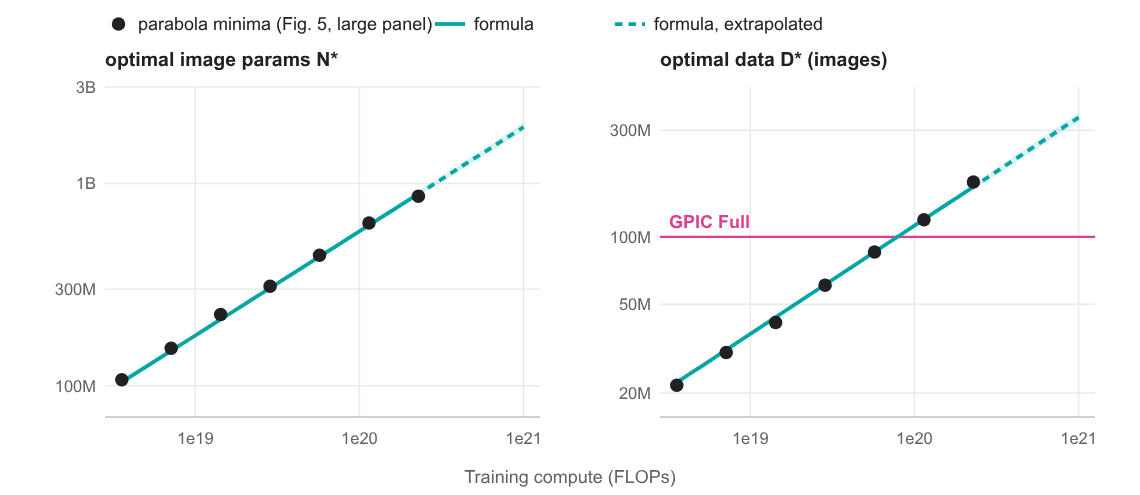
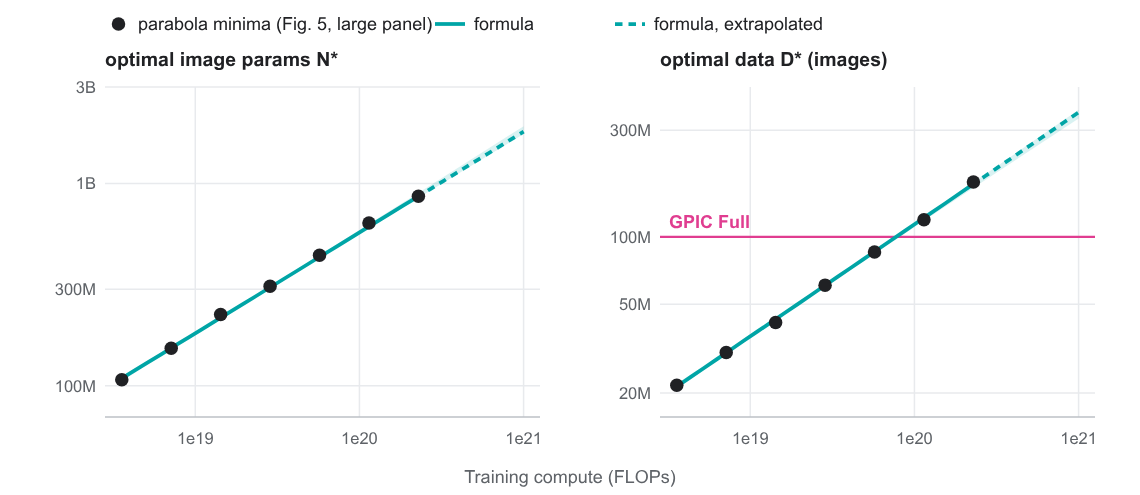
Scaling law: each run weighted toward its iso-FLOP minimum and toward larger compute, as in the post; the recipe at the optimum
The post's fit changed (owner, 2026-11-15: a free fit weighted toward the bottom of each curve and toward larger compute, width 0.4 x
sqrt(C)): each run's weight is exp(-d^2 / (2 x 0.4^2)) x sqrt(C / 3.6e18), d = ln N minus the vertex of its budget's iso-FLOP parabola.
tools/fit/scaling_law.py now fits with these weights (--equal-weights gives the earlier fit: E 0.04805, N* ~ C^0.515) and reproduces
the post: E 0.04572, A 5.314e-5, B 3.829e-4, alpha 0.5202, beta 0.5171, k 0.2030; RMS 0.057% (0.025% for the 28 runs within 2x of a
minimum); N* ~ C^0.498 [0.491, 0.516] with --boot 200; 50.4 to 51.3 tokens per parameter from 3.6e18 to 1e21 FLOPs.
It also prints the recipe at each optimum (owner: list the optimal Muon learning rate, AdamW learning rate and Muon weight decay):
Muon lr 1.36e-2 (C / 3.567e18)^-0.5, AdamW lr 6.4e-4 (all params / 109.4M)^-0.547 with all params from N* by a power law over the
runs' shapes, Muon weight decay 5 / (Muon lr x steps); the weight decay stays at 0.0175 to 0.0176. final_ladder_runs.csv gains the
column all_params (every parameter of each run's model). README: the new constants, exponents, the 1e21 optimum and its recipe;
docs/readme/optimum.png is the post's new figure 6.

Claude-Session: https://claude.ai/code/session_01Dj2myRxoRV2Rpcc3nkYAcR

diff --git a/tools/fit/scaling_law.py b/tools/fit/scaling_law.py
@@ -4,16 +4,22 @@
 One formula for the held-out loss of a model with N image parameters trained on D image tokens:
     L(N, D) = E + (A / N^alpha + B / D^beta)^k          (Chinchilla's form when k = 1)
 N = 18 x image layers x width^2 (the image layers' matrices; text layers, adaLN and embeddings left out), D = image tokens seen
-(256 per image), C = 6 N D. The fit minimizes the squared relative error over the runs (least squares, 48 random starts, the best kept),
-in the variables x = ln(N / 1e8), y = ln(D / 1e10): L = E + K [e^(-alpha x) + R e^(-beta y)]^k, which gives A and B back.
+(256 per image), C = 6 N D. The fit minimizes the weighted squared relative error over the runs (least squares, 48 random starts, the
+best kept), in the variables x = ln(N / 1e8), y = ln(D / 1e10): L = E + K [e^(-alpha x) + R e^(-beta y)]^k, which gives A and B back.
+Each run's weight is exp(-d^2 / (2 x 0.4^2)) x sqrt(C / 3.6e18), d = ln N minus the vertex of its budget's iso-FLOP parabola (a quadratic
+in ln N through that budget's runs): runs far from a minimum pull the optimum off (equal weights: N* ~ C^0.515; only the runs within 2x
+of a minimum: C^0.50), and larger budgets are closer to where the law is extrapolated. --equal-weights fits every run alike.
 For a budget C the loss is lowest at N* = G (C / 6)^(beta / (alpha + beta)), D* = C / (6 N*), G = (alpha A / (beta B))^(1 / (alpha + beta))
-(Weng 2026's closed form; k does not move the optimum). --boot resamples the runs for 90% intervals.
+(Weng 2026's closed form; k does not move the optimum). --boot resamples the runs (each keeps its weight) for 90% intervals.
+At each optimum it also prints the post's recipe: Muon lr = 1.36e-2 (C / 3.567e18)^-0.5, AdamW lr = 6.4e-4 (all params / 109.4M)^-0.547,
+Muon weight decay = 5 / (Muon lr x steps), steps = D* / (1024 x 256); all params from N* by a power law over the runs' shapes.
 
 Data: final_ladder_runs.csv beside this file: every run of the iso-FLOP curves with the post's recipe (50% cooldown, the rate rule,
 batch 1024, GPIC Full), 3.6e18 to 2.3e20 FLOPs; heldout_loss is tools/heldout_loss.py's mean over 16 noise levels on 3,072 held-out
-images, raw weights at the last step.
-usage: python tools/fit/scaling_law.py [--csv final_ladder_runs.csv] [--boot 200]      (numpy and scipy; about a minute with --boot 200)
-Expected (the post): E 0.0481, alpha 0.54, beta 0.57, k 0.22, N* ~ C^0.52, about 50 tokens per parameter, a loss error of 0.036%.
+images, raw weights at the last step; all_params counts every parameter of the model.
+usage: python tools/fit/scaling_law.py [--csv final_ladder_runs.csv] [--boot 200] [--equal-weights]   (numpy and scipy; a minute with --boot)
+Expected (the post): E 0.0457, alpha 0.52, beta 0.52, k 0.20, N* ~ C^0.50, 50 to 51 tokens per parameter, a loss error of 0.057%
+(0.025% for the runs within 2x of a minimum); at the optimum a Muon weight decay of about 0.0175 at every budget.
 """
 import argparse, csv, math, os
 import numpy as np
@@ -23,6 +29,7 @@ from scipy.optimize import least_squares
 SPEC = [("E", 0.0, 0.0645, (0.055, 0.064)), ("lnK", -25, 5, (-9, -3)), ("alpha", 0.005, 3, (0.05, 1.5)), ("beta", 0.005, 3, (0.05, 1.5)),
         ("lnR", -15, 15, (-3, 3)), ("k", 0.005, 3, (0.05, 1.2))]
 LO, HI = np.array([s[1] for s in SPEC]), np.array([s[2] for s in SPEC])
+C0 = 3.567e18   # the smallest budget (d10); budgets are C0 x 2^j
 
 
 def predict(t, x, y):
@@ -30,14 +37,15 @@ def predict(t, x, y):
     return E + np.exp(lnK + k * np.logaddexp(-a * x, lnR - b * y))
 
 
-def fit(x, y, L, nstart, seed, extra=()):
+def fit(x, y, L, w, nstart, seed, extra=()):
     rng = np.random.default_rng(seed)
     best = (None, float("inf"))
+    sw = np.sqrt(w)
     for s in list(extra) + [np.array([rng.uniform(*sp[3]) for sp in SPEC]) for _ in range(nstart)]:
         s = np.clip(s, LO + 1e-9 * (HI - LO), HI - 1e-9 * (HI - LO))
         try:
             with np.errstate(all="ignore"):
-                r = least_squares(lambda t: (predict(t, x, y) - L) / L, s, bounds=(LO, HI), method="trf", x_scale="jac",
+                r = least_squares(lambda t: sw * (predict(t, x, y) - L) / L, s, bounds=(LO, HI), method="trf", x_scale="jac",
                                   max_nfev=4000, ftol=1e-12, xtol=1e-12, gtol=1e-12)
         except Exception:
             continue
@@ -45,6 +53,17 @@ def fit(x, y, L, nstart, seed, extra=()):
         if np.isfinite(rss) and rss < best[1]:
             best = (r.x, rss)
     return best[0]
+
+
+def vertex_distance(N, L, C):
+    """d = ln N minus the vertex of the run's budget's parabola (L quadratic in ln N over the runs of that budget)."""
+    b = np.round(np.log2(C / C0)).astype(int)
+    d = np.zeros(len(N))
+    for j in set(b):
+        i = b == j
+        p = np.polyfit(np.log(N[i]), L[i], 2)
+        d[i] = np.log(N[i]) + p[1] / (2 * p[0])
+    return d
 
 
 def constants(t):
@@ -63,34 +82,43 @@ def main():
     ap = argparse.ArgumentParser(description=__doc__.split("\n")[0])
     ap.add_argument("--csv", default=os.path.join(os.path.dirname(os.path.abspath(__file__)), "final_ladder_runs.csv"))
     ap.add_argument("--boot", type=int, default=0, help="bootstrap resamples of the runs for 90%% intervals (the post: 200)")
+    ap.add_argument("--equal-weights", action="store_true", help="weight every run alike (the post's weights otherwise)")
     a = ap.parse_args()
     rows = list(csv.DictReader(open(a.csv)))
     N = np.array([float(r["image_params"]) for r in rows]); D = np.array([float(r["image_tokens"]) for r in rows])
-    L = np.array([float(r["heldout_loss"]) for r in rows])
+    L = np.array([float(r["heldout_loss"]) for r in rows]); C = np.array([float(r["flops"]) for r in rows])
     x, y = np.log(N / 1e8), np.log(D / 1e10)
-    t = fit(x, y, L, 48, 1)
+    d = vertex_distance(N, L, C)
+    w = np.ones(len(rows)) if a.equal_weights else np.exp(-d ** 2 / (2 * 0.4 ** 2)) * np.sqrt(C / C0)
+    t = fit(x, y, L, w, 48, 1)
     p = constants(t)
     err = predict(t, x, y) / L - 1
+    near = np.abs(d) <= math.log(2)
     eN = p["beta"] / (p["alpha"] + p["beta"])
-    print(f"{len(rows)} runs; L = E + (A/N^alpha + B/D^beta)^k")
+    print(f"{len(rows)} runs ({'equal weights' if a.equal_weights else 'weighted to each minimum and to compute'}); L = E + (A/N^alpha + B/D^beta)^k")
     print("  " + ", ".join(f"{k} {v:.4g}" for k, v in p.items()))
-    print(f"  loss error: RMS {100 * np.sqrt(np.mean(err ** 2)):.3f}%, largest {100 * np.max(np.abs(err)):.3f}%")
+    print(f"  loss error: RMS {100 * np.sqrt(np.mean(err ** 2)):.3f}% ({100 * np.sqrt(np.mean(err[near] ** 2)):.3f}% for the {near.sum()} runs within 2x "
+          f"of a minimum), largest {100 * np.max(np.abs(err)):.3f}%")
     print(f"  N* ~ C^{eN:.3f}, D* ~ C^{1 - eN:.3f}")
-    budgets = (3.6e18, 7.1e18, 1.4e19, 2.9e19, 5.7e19, 1.1e20, 2.3e20, 1e21)
-    print("  budget   N* (image parameters)  D* (image tokens)  tokens per parameter  predicted loss")
-    for C in budgets:
-        n, d = optimum(p, C)
-        print(f"  {C:.2g}  {n / 1e6:12.0f}M  {d / 1e9:15.1f}B  {d / n:17.1f}  {p['E'] + (p['A'] / n ** p['alpha'] + p['B'] / d ** p['beta']) ** p['k']:.5f}")
+    shapes = {(r["width"], r["image_layers"], r["text_layers"]): (float(r["image_params"]), float(r["all_params"])) for r in rows}
+    g, c = np.polyfit(*np.log(np.array(list(shapes.values()))).T, 1)   # ln(all params) = c + g ln(N)
+    print("  budget   N* (image parameters)  D* (image tokens)  tokens per parameter  predicted loss  Muon lr  AdamW lr  Muon weight decay")
+    for Cb in [C0 * 2 ** j for j in range(7)] + [1e21]:
+        n, dd = optimum(p, Cb)
+        mlr = 1.36e-2 * (Cb / C0) ** -0.5
+        alr = 6.4e-4 * (math.exp(c + g * math.log(n)) / 109.4e6) ** -0.547
+        print(f"  {Cb:.2g}  {n / 1e6:12.0f}M  {dd / 1e9:15.1f}B  {dd / n:17.1f}  {p['E'] + (p['A'] / n ** p['alpha'] + p['B'] / dd ** p['beta']) ** p['k']:15.5f}"
+              f"  {mlr:.2e}  {alr:.2e}  {5 / (mlr * dd / (1024 * 256)):.4f}")
     if a.boot:
         rng = np.random.default_rng(7)
         eNs, tpp = [], []
         for _ in range(a.boot):
             i = rng.choice(len(rows), len(rows))
-            tb = fit(x[i], y[i], L[i], 4, int(rng.integers(1e9)), extra=[t])
+            tb = fit(x[i], y[i], L[i], w[i], 4, int(rng.integers(1e9)), extra=[t])
             pb = constants(tb)
             eNs.append(pb["beta"] / (pb["alpha"] + pb["beta"]))
-            n, d = optimum(pb, 2.3e20)
-            tpp.append(d / n)
+            n, dd = optimum(pb, 2.3e20)
+            tpp.append(dd / n)
         lo, hi = np.percentile(eNs, [5, 95])
         print(f"  {a.boot} bootstrap resamples: N* exponent 90% interval [{lo:.3f}, {hi:.3f}];"
               f" tokens per parameter at 2.3e20 [{np.percentile(tpp, 5):.1f}, {np.percentile(tpp, 95):.1f}]")

diff --git a/README.md b/README.md
@@ -83,11 +83,11 @@ Each step runs on one node with 8 H100 GPUs, except the fit. Set `GPIC_WC` to a 
 
 <img src="docs/readme/optimum.png" width="760" alt="The optimal image parameters and images against training compute: the minima of the iso-FLOP parabolas and the fitted formula">
 
-The held-out loss of the final ladder falls from 0.06788 at 3.6e18 FLOPs (d10) to 0.06351 at 2.3e20 FLOPs (d18). One formula fits the 38 runs with an RMS error of 0.036%:
+The held-out loss of the final ladder falls from 0.06788 at 3.6e18 FLOPs (d10) to 0.06351 at 2.3e20 FLOPs (d18). One formula fits the 38 runs, each weighted toward the minimum of its iso-FLOP curve (a Gaussian of width 0.4 in ln N) and toward larger compute (∝ √C), with an RMS error of 0.057% (0.025% for the runs within 2× of a minimum):
 
-L(N, D) = E + (A / N^α + B / D^β)^k, with E = 0.0481, A = 1.35e-4, B = 2.33e-3, α = 0.54, β = 0.57, k = 0.22.
+L(N, D) = E + (A / N^α + B / D^β)^k, with E = 0.0457, A = 5.31e-5, B = 3.83e-4, α = 0.52, β = 0.52, k = 0.20.
 
-The best model grows as N\* ∝ C^0.52 [0.50, 0.53] and its data as D\* ∝ C^0.48, at about 50 image tokens per image parameter with no measurable trend over 64× in compute. Fitted to the 34 runs up to 1.1e20 FLOPs, the formula predicted the four runs at 2.3e20 FLOPs within 0.09%. Extrapolated to 1e21 FLOPs, the optimum is about 1.9B image parameters and 88B image tokens.
+The best model grows as N\* ∝ C^0.50 [0.49, 0.52] and its data as D\* ∝ C^0.50, at 50 to 51 image tokens per image parameter. Fitted to the 34 runs up to 1.1e20 FLOPs, the formula predicted the four runs at 2.3e20 FLOPs within 0.05%. Extrapolated to 1e21 FLOPs, the optimum is about 1.8B image parameters and 92B image tokens; there the recipe gives a Muon learning rate of 8.1e-4, an AdamW learning rate of 1.1e-4 and a Muon weight decay of 0.0175 (about the same at every budget). `python tools/fit/scaling_law.py` prints these values for each budget.
 
 ## How the ladder was built
 
